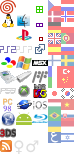
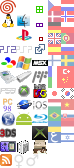
Add platforms: Game Boy Color, PC-88, PC-FX and XBOX

diff --git a/data/style.css b/data/style.css
@@ -819,11 +819,13 @@ a .icons { cursor: pointer }
 .icons.p98 { background-position:   0px -98px; }
 .icons.web { background-position:   0px -112px; }
 .icons.n3d { background-position:   0px -126px; }
-.icons.feed { background-position:  0px -140px; }
+.icons.gbc { background-position:   0px -140px; }
+
+.icons.feed { background-position:  0px -154px; }
 
 .icons.gen.f,
-.icons.gen.b { background-position: -12px -140px; }
-.icons.gen.m { background-position: -26px -140px; }
+.icons.gen.b { background-position: -12px -154px; }
+.icons.gen.m { background-position: -26px -154px; }
 
 .icons.dvd { background-position: -16px   0px; }
 .icons.mac { background-position: -16px -14px; }
@@ -835,6 +837,7 @@ a .icons { cursor: pointer }
 .icons.sat { background-position: -16px -98px; }
 .icons.and { background-position: -16px -112px; }
 .icons.psv { background-position: -16px -126px; }
+.icons.pcf { background-position: -16px -140px; }
 
 .icons.rtcomplete { background-position: -32px   0px; }
 .icons.rtpartial  { background-position: -32px -14px; }
@@ -845,6 +848,8 @@ a .icons { cursor: pointer }
 .icons.dos { background-position: -32px -84px; }
 .icons.ios { background-position: -32px -98px; }
 .icons.bdp { background-position: -32px -112px; }
+.icons.xb1 { background-position: -32px -126px; }
+.icons.p88 { background-position: -32px -140px; }
 
 .icons.cs  { background-position: -48px   0px; }
 .icons.da  { background-position: -48px -11px; }
